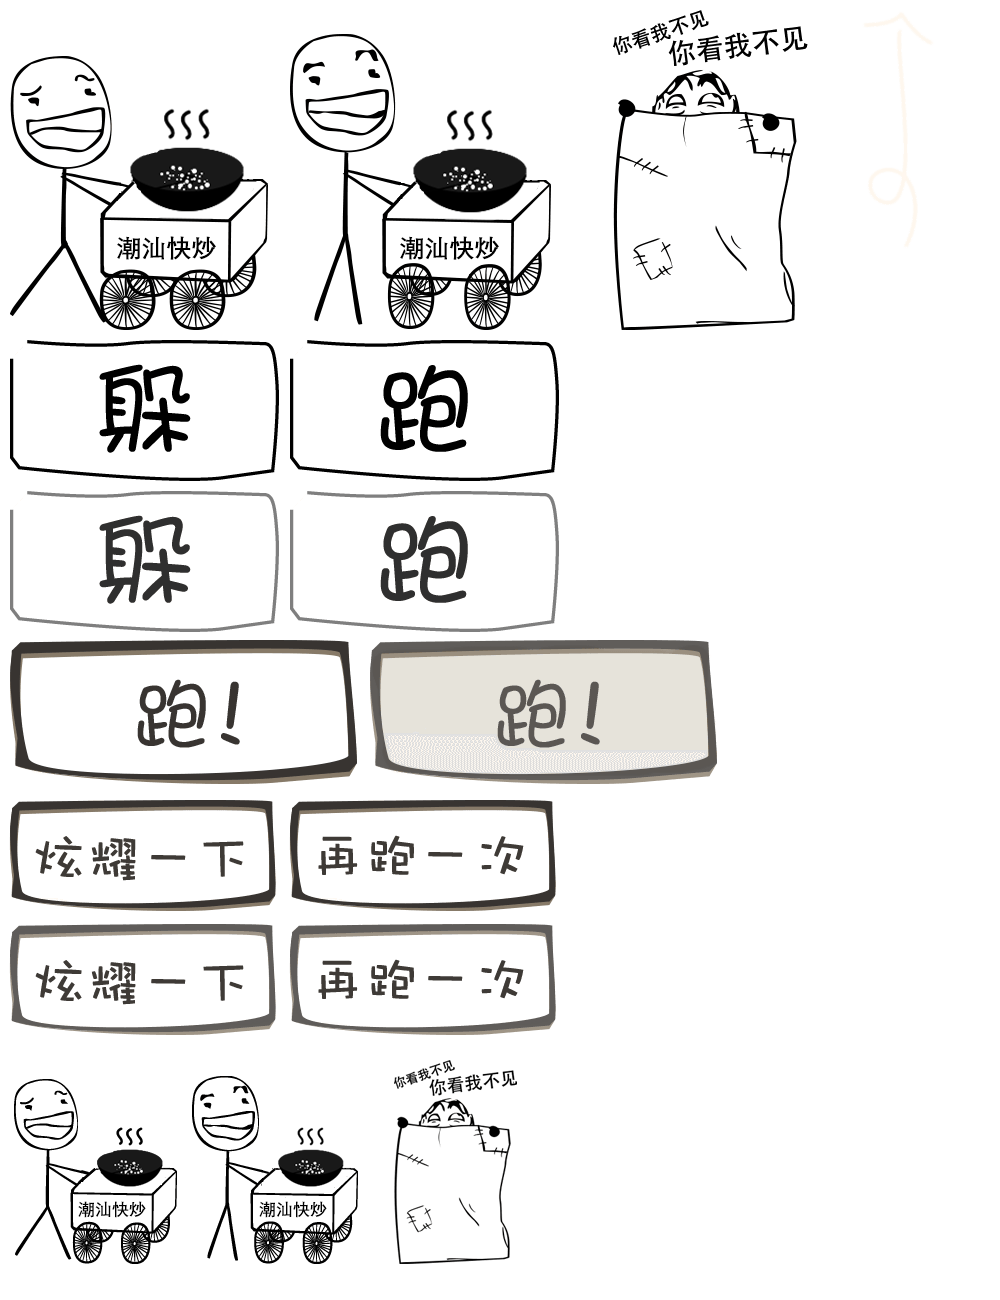
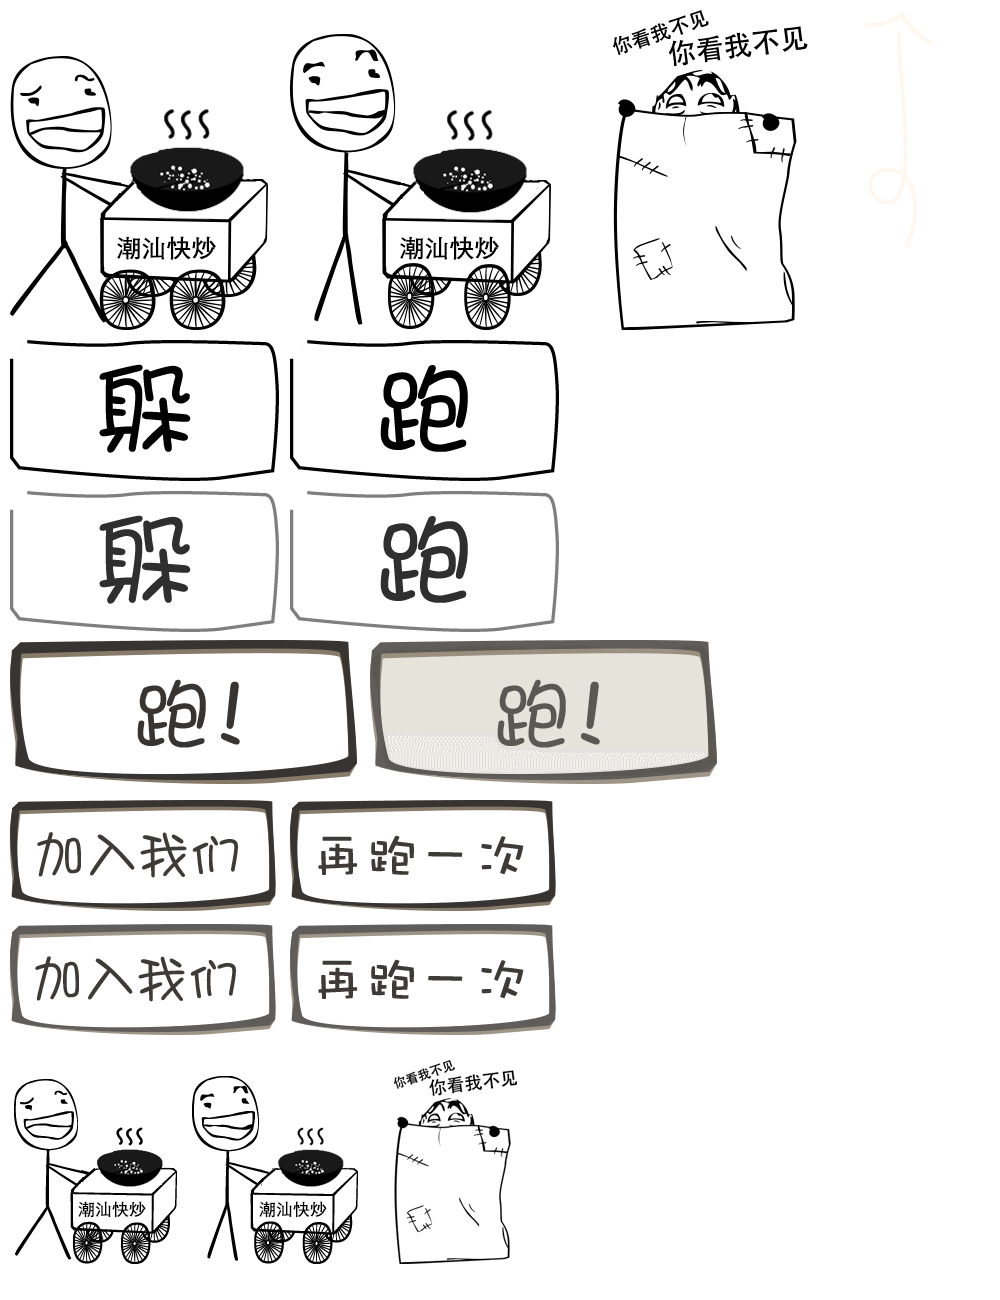
1

Changed region(s): [[0.031, 0.7385, 0.248, 0.7692], [0.031, 0.6462, 0.248, 0.6769]]

diff --git a/main.js b/main.js
@@ -140,6 +140,25 @@ function resetTime() {
 	timeCount();
 }
 
+function changeTitle(string){
+    var u = navigator.userAgent;
+    var isiOS = !!u.match(/\(i[^;]+;( U;)? CPU.+Mac OS X/); //ios终端
+    document.title = string;
+    if (isiOS) {
+        var body = document.getElementsByTagName('body')[0];
+        
+        var iframe = document.createElement("iframe");
+        iframe.setAttribute("src", "loading.png");
+        iframe.addEventListener('load', function() {
+        setTimeout(function() {
+          iframe.removeEventListener('load', function(){});
+            document.body.removeChild(iframe);
+          }, 0);
+        });
+        document.body.appendChild(iframe);
+    }
+    
+}
 
 
 function gameOver(){
@@ -150,8 +169,7 @@ function gameOver(){
 	$("#layer").hide();
 	clearTimeout(setTime);
 	var resultString = '';
-	var shareString = '';
-	var shareString1 = '';
+	var shareString = '我在三饭快炒小哥躲城管撑了' + lastStep +'格,不服来战';;
 	if (lastStep <= 15) {
 		resultString = '这么垃圾还好意思学人家摆摊，进去蹲几年吧！';
 	} else if (lastStep > 15 && lastStep <= 30) {
@@ -171,15 +189,23 @@ function gameOver(){
 	} else {
 		resultString = '你别跑呀，我不查你还不行吗！';
 	}
+	setTimeout(function(){
+			$("#share").show();
+
+		},1000);
 	$("#result1").html(resultString);
 	$('#num').html(lastStep);
 	resultBack = 1;
 	var peopleScream = $('#people_scream')[0];
 	peopleScream.play();
+	changeTitle(shareString);
 }
 
 function tryAgain() {
+	var defaultString = '三饭快炒小哥躲城管';
 	people.reset();
+	changeTitle(defaultString);
+	$("#share").hide();
 	$('#layer_btn_hide').removeClass('btn_hide_hover');
 	$('#layer_btn_run').removeClass('btn_run_hover');
 	time = 2000;

diff --git a/index.html b/index.html
@@ -1,7 +1,7 @@
 <!DOCTYPE html>
 <html>
 <head>
-	<title>帮助三饭快炒小哥逃避城管</title>
+	<title>三饭快炒小哥躲城管</title>
 	<meta http-equiv="Content-Type" content="text/html;charset=UTF-8"></meta>
 	<meta name="viewport" content="initial-scale=1.0, minimum-scale=1.0, maximum-scale=1.0, user-scalable=no"></meta>
 	<link rel="stylesheet" type="text/css" href="index.css">
@@ -55,13 +55,14 @@
 				<div id="result1">辣鸡，进去里面蹲着吧</div>
 			</div>
 			<div id="result_wrapper_btn">
-				<a id="share" class="img"></a>
+				<a id="join" class="img" href="https://form.mikecrm.com/DD90BH"></a>
 				<a id="again" class="img"></a>
 			</div>
 		</div>
 	</div>
+	<img id="share" src="share.png"></img>
 	<div id="footer">created by 华工创维俱乐部</div>
-	<audio src="bgm1.mp3" autoplay="autoplay"  loop="loop" hidden="true"></audio>
+	<audio src="bgm.mp3" autoplay="autoplay"  loop="loop" hidden="true"></audio>
 	<script type="text/javascript" src="jquery-1.8.3.min.js"></script>
 	<script type="text/javascript" src="main.js"></script>
 </body>

diff --git a/index.css b/index.css
@@ -514,7 +514,7 @@ html, body {
         font-weight: bold; }
     #result #result_wrapper #result_wrapper_btn {
       text-align: center; }
-      #result #result_wrapper #result_wrapper_btn #share {
+      #result #result_wrapper #result_wrapper_btn #join {
         display: inline-block;
         width: 135px;
         height: 57px;
@@ -536,6 +536,12 @@ html, body {
   text-align: center;
   font-size: 1em;
   font-weight: bold; }
+
+#share {
+  display: none;
+  position: absolute;
+  top: 0;
+  right: 0; }
 
 @media only screen and (-webkit-min-device-pixel-ratio: 2) {
   .back_pic {
@@ -561,6 +567,13 @@ html, body {
 
   .alert {
     background-image: url("note.png");
-    -webkit-background-size: 600px 100px; } }
+    -webkit-background-size: 600px 100px; }
+
+  #share {
+    position: absolute;
+    top: 0;
+    right: 0;
+    width: 224px;
+    height: 106px; } }
 
 /*# sourceMappingURL=index.css.map */

diff --git a/index.scss b/index.scss
@@ -478,7 +478,7 @@ html, body {
 		}
 		#result_wrapper_btn {
 				text-align: center;
-				#share{
+				#join{
 					display: inline-block;
 					width: 135px;
 					height: 57px;
@@ -505,6 +505,12 @@ html, body {
 	text-align: center;
 	font-size: 1em; 
 	font-weight: bold;
+}
+#share{
+	display: none;
+	position: absolute;
+	top: 0;
+	right: 0;
 }
 @media only screen and (-webkit-min-device-pixel-ratio: 2)
 {
@@ -534,6 +540,13 @@ html, body {
         background-image:url('note.png');
         -webkit-background-size: 600px 100px;
     }
+    #share{
+		position: absolute;
+		top: 0;
+		right: 0;
+		width: 224px;
+		height: 106px;
+	}
 }
 
 
